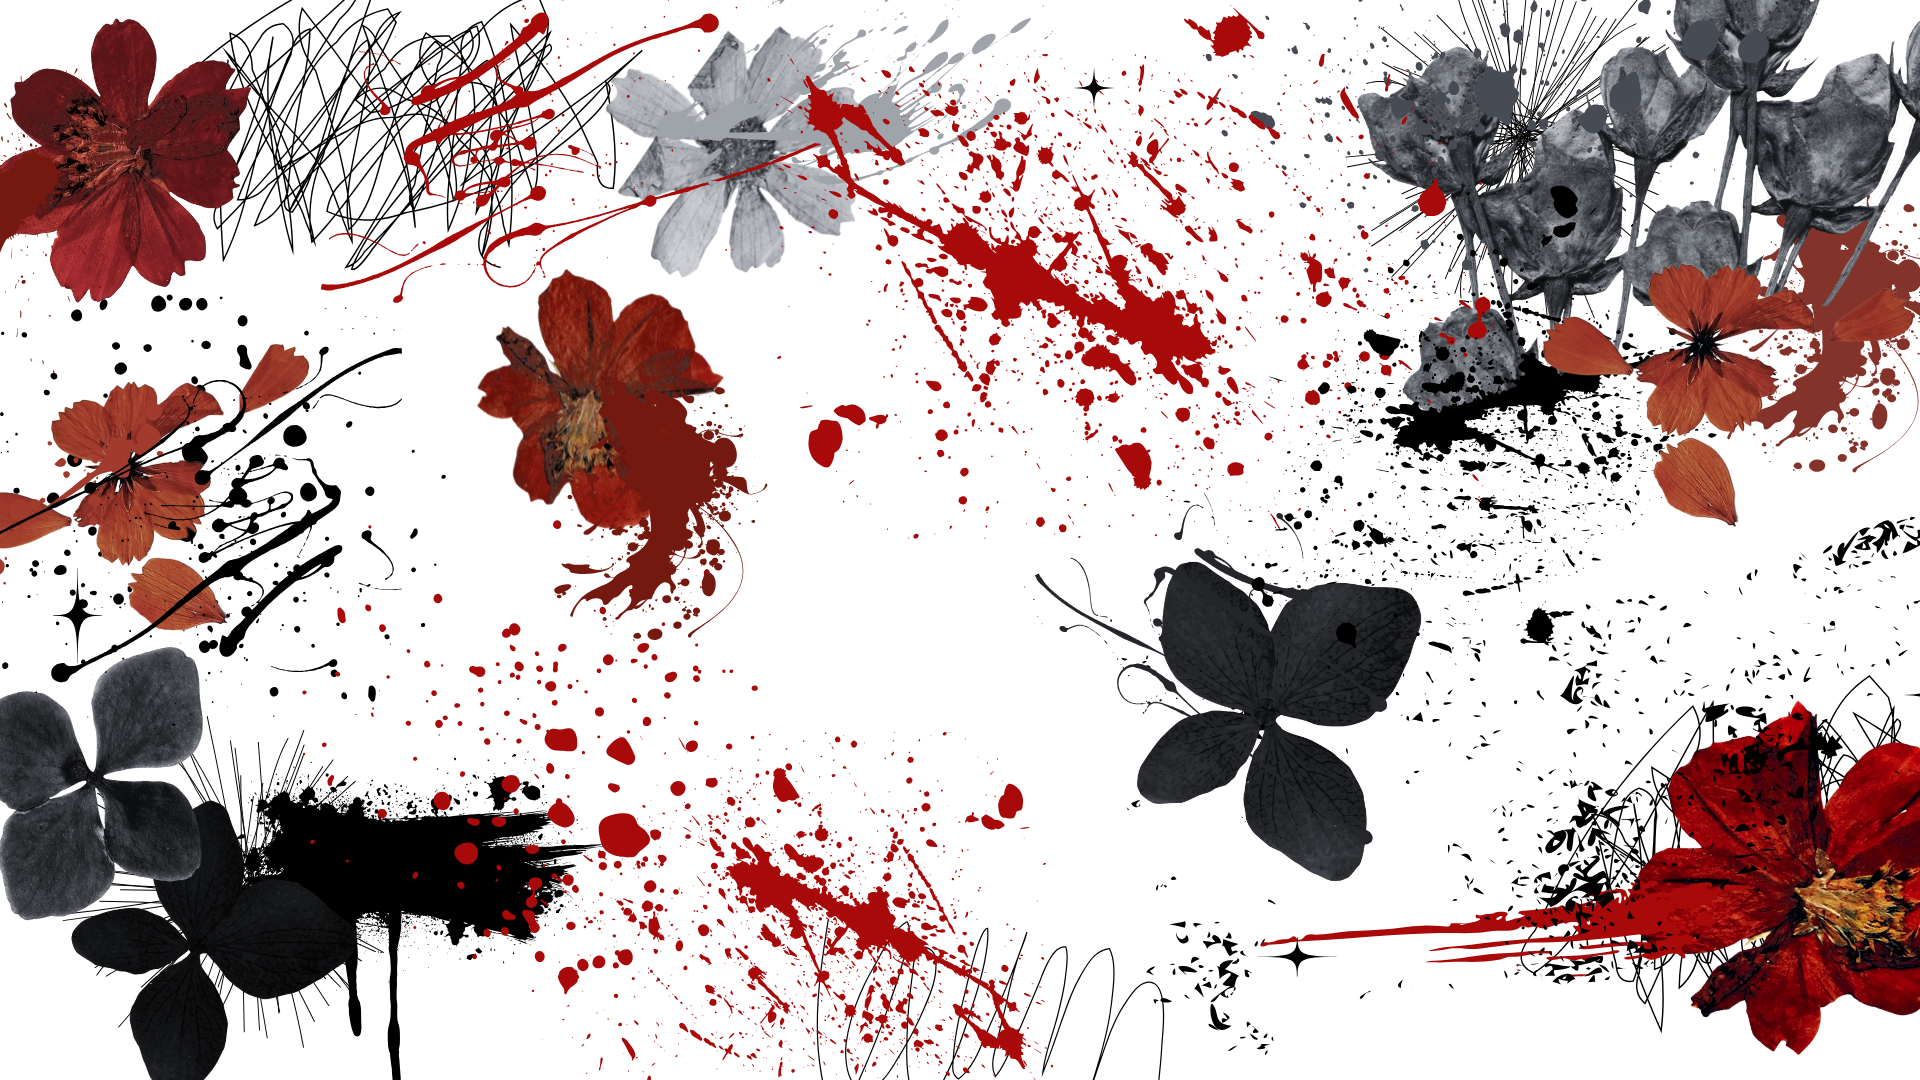
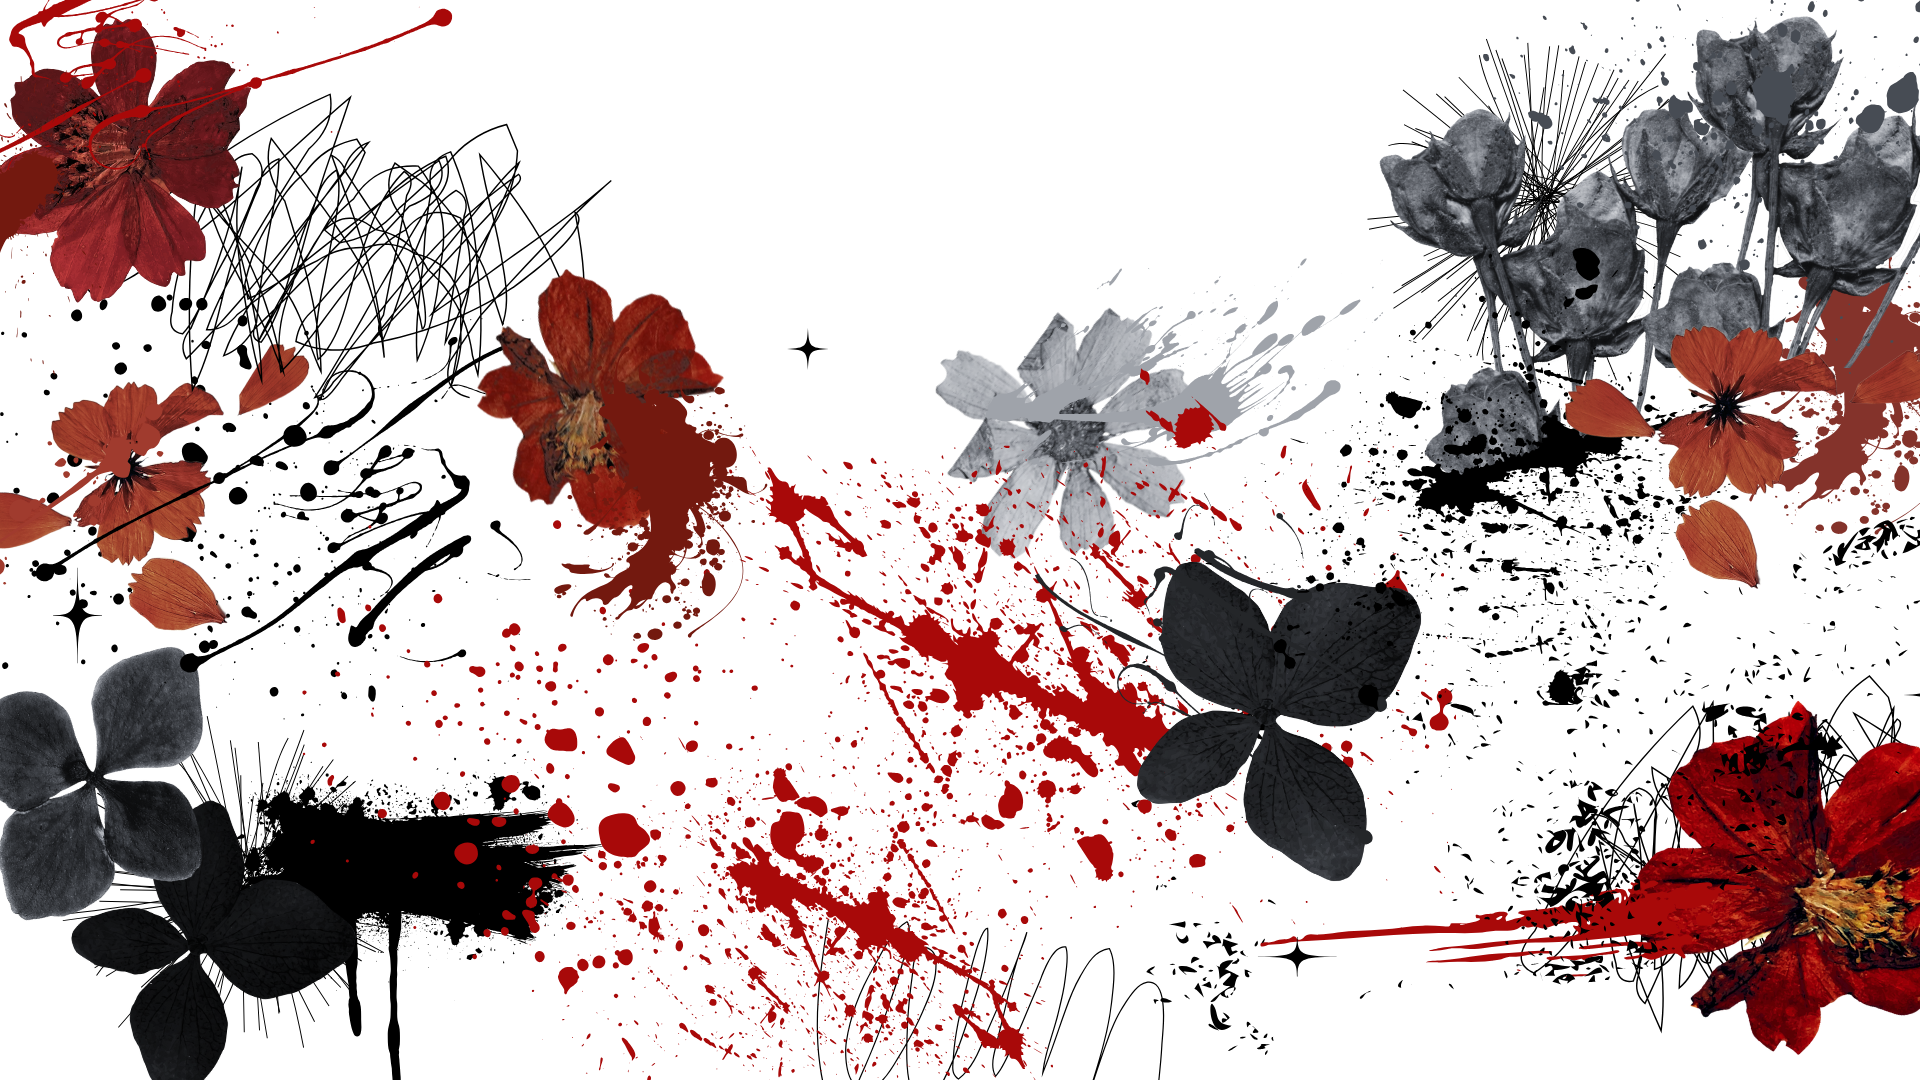
Shirts and filters

diff --git a/frontend/src/pages/shirts/Shirts.jsx b/frontend/src/pages/shirts/Shirts.jsx
@@ -1,10 +1,13 @@
-import React, { useEffect } from 'react';
+import React, { useEffect, useState } from 'react';
 import './Shirts.css';
 import AOS from 'aos';
 import 'aos/dist/aos.css';
 import CardClothing from '../../components/cardClothing/CardClothing.jsx';
+import shirtsData from './ShirtsData.jsx';
+
 
 const Shirts = () => {
+  
   useEffect(() => {
     AOS.init({
       duration: 1000,  // Duración de la animación
@@ -13,6 +16,35 @@ const Shirts = () => {
       offset: 200,  // Desplazamiento desde el top para que inicie la animación
     });
   }, []);
+
+
+  const [showFilters, setShowFilters] = useState(false);
+const [collectionFilter, setCollectionFilter] = useState('');
+const [colorFilter, setColorFilter] = useState('');
+const [sortOrder, setSortOrder] = useState('');
+const [maxPrice, setMaxPrice] = useState(200);
+
+const toggleFilters = () => setShowFilters(!showFilters);
+
+const clearFilters = () => {
+  setCollectionFilter('');
+  setColorFilter('');
+  setSortOrder('');
+  setMaxPrice(200);
+};
+
+const filteredShirts = shirtsData
+  .filter(shirt =>
+    (collectionFilter ? shirt.coleccion === collectionFilter : true) &&
+    (colorFilter ? shirt.color === colorFilter : true) &&
+    shirt.precio <= maxPrice
+  )
+  .sort((a, b) => {
+    if (sortOrder === 'asc') return a.precio - b.precio;
+    if (sortOrder === 'desc') return b.precio - a.precio;
+    return 0;
+  });
+
 
   return (
     <>
@@ -25,65 +57,87 @@ const Shirts = () => {
       <div className="title-wrapper">
         <h1 className="shirtstitle">SHIRTS</h1>
         </div>
+        
+        <div className="filter-wrapper mb-4">
+  <button className="btn btnfilters" onClick={toggleFilters}>
+    {showFilters ? 'Hide filters' : 'Show filters'}
+  </button>
 
-        <div className="row row-cols-1 row-cols-sm-2 row-cols-md-3 row-cols-lg-4 g-4 justify-content-center">
-
-          <div className="col d-flex justify-content-center" data-aos="fade-up">
-            <CardClothing imagen="/shirts1.png" titulo="Camiseta" precio="12.99" enlace="terms" />
-          </div>
-          <div className="col d-flex justify-content-center" data-aos="fade-up">
-            <CardClothing imagen="/shirts1.png" titulo="Camiseta 2" precio="11.99" enlace="terms" />
-          </div>
-          <div className="col d-flex justify-content-center" data-aos="fade-up">
-            <CardClothing imagen="/shirts1.png" titulo="Camiseta 3" precio="11.99" enlace="terms" />
-          </div>
-          <div className="col d-flex justify-content-center" data-aos="fade-up">
-            <CardClothing imagen="/shirts1.png" titulo="Camiseta 4" precio="111.99" enlace="terms" />
-          </div>
-
-
-          <div className="col d-flex justify-content-center" data-aos="fade-up">
-            <CardClothing imagen="/shirts1.png" titulo="Camiseta 5" precio="111.99" enlace="terms" />
-          </div>
-          <div className="col d-flex justify-content-center" data-aos="fade-up">
-            <CardClothing imagen="/shirts1.png" titulo="Camiseta 6" precio="111.99" enlace="terms" />
-          </div>
-          <div className="col d-flex justify-content-center" data-aos="fade-up">
-            <CardClothing imagen="/shirts1.png" titulo="Camiseta 7" precio="111.99" enlace="terms" />
-          </div>
-          <div className="col d-flex justify-content-center" data-aos="fade-up">
-            <CardClothing imagen="/shirts1.png" titulo="Camiseta 8" precio="111.99" enlace="terms" />
-          </div>
-
-
-            <div className="col d-flex justify-content-center" data-aos="fade-up">
-            <CardClothing imagen="/shirts1.png" titulo="Camiseta 5" precio="111.99" enlace="terms" />
-          </div>
-          <div className="col d-flex justify-content-center" data-aos="fade-up">
-            <CardClothing imagen="/shirts1.png" titulo="Camiseta 6" precio="111.99" enlace="terms" />
-          </div>
-          <div className="col d-flex justify-content-center" data-aos="fade-up">
-            <CardClothing imagen="/shirts1.png" titulo="Camiseta 7" precio="111.99" enlace="terms" />
-          </div>
-          <div className="col d-flex justify-content-center" data-aos="fade-up">
-            <CardClothing imagen="/shirts1.png" titulo="Camiseta 8" precio="111.99" enlace="terms" />
-          </div>
-
-
-            <div className="col d-flex justify-content-center" data-aos="fade-up">
-            <CardClothing imagen="/shirts1.png" titulo="Camiseta 5" precio="111.99" enlace="terms" />
-          </div>
-          <div className="col d-flex justify-content-center" data-aos="fade-up">
-            <CardClothing imagen="/shirts1.png" titulo="Camiseta 6" precio="111.99" enlace="terms" />
-          </div>
-          <div className="col d-flex justify-content-center" data-aos="fade-up">
-            <CardClothing imagen="/shirts1.png" titulo="Camiseta 7" precio="111.99" enlace="terms" />
-          </div>
-          <div className="col d-flex justify-content-center" data-aos="fade-up">
-            <CardClothing imagen="/shirts1.png" titulo="Camiseta 8" precio="111.99" enlace="terms" />
-          </div>
-
+  {showFilters && (
+    <div className="filter-menu p-4 mt-3 rounded shadow-sm">
+      <div className="row">
+        <div className="col-md-4 mb-3">
+          <label className="form-label">Collection:</label>
+          <select className="form-select" value={collectionFilter} onChange={(e) => setCollectionFilter(e.target.value)}>
+            <option value="">All</option>
+            <option value="verano">ANGEL OR CRAZY</option>
+            <option value="invierno">This Is Eclipse</option>
+            <option value="limitada">GOOD BOY GONE BAD</option>
+          </select>
         </div>
+
+        <div className="col-md-4 mb-3">
+          <label className="form-label">Color:</label>
+          <select className="form-select" value={colorFilter} onChange={(e) => setColorFilter(e.target.value)}>
+            <option value="">All</option>
+            <option value="rojo">Red</option>
+            <option value="negro">Black</option>
+            <option value="blanco">White</option>
+          </select>
+        </div>
+
+        <div className="col-md-4 mb-3">
+          <label className="form-label">Sort by price:</label>
+          <select className="form-select" value={sortOrder} onChange={(e) => setSortOrder(e.target.value)}>
+            <option value="">No order</option>
+            <option value="asc">Ascending</option>
+            <option value="desc">Descending</option>
+          </select>
+        </div>
+      </div>
+
+      <div className="row mt-3 align-items-center">
+        <div className="col-md-9">
+          <label className="form-label">Max. price: ${maxPrice}</label>
+          <input
+            type="range"
+            className="form-range"
+            min="0"
+            max="200"
+            step="1"
+            value={maxPrice}
+            onChange={(e) => setMaxPrice(parseFloat(e.target.value))}
+          />
+        </div>
+        <div className="col-md-3 text-end">
+        <button className="btn btn-limpiar" onClick={clearFilters}>Clear filters</button>
+        </div>
+      </div>
+    </div>
+  )}
+</div>
+
+{filteredShirts.length === 0 && (
+  <div className="text-center text-light bg-dark p-4 rounded my-4 shadow">
+    <h5>No clothes found with the selected filters.    </h5>
+  </div>
+)}
+
+    
+<div className="row row-cols-1 row-cols-sm-2 row-cols-md-3 row-cols-lg-4 g-4 justify-content-center">
+  {filteredShirts.map((shirt) => (
+    <div className="col d-flex justify-content-center" data-aos="fade-up" key={shirt.id}>
+      <CardClothing
+        imagen={shirt.imagen}
+        titulo={shirt.titulo}
+        precio={shirt.precio}
+        enlace={shirt.enlace}
+      />
+    </div>
+  ))}
+</div>
+
+
       </div>
     </>
   );

diff --git a/frontend/src/pages/shirts/Shirts.css b/frontend/src/pages/shirts/Shirts.css
@@ -1,5 +1,5 @@
 .backshirts {
-    background-image: url('/shirtsbg-small.png');
+    background-image: url('/shirtsback.png');
     background-size: contain 100%; /* Ahora cubre toda la pantalla */
     background-position: center;
     background-repeat: repeat-y; /* Ya no se repite, se adapta al tamaño */
@@ -38,7 +38,6 @@
   
   .shirtstitle {
     color: red; /* Letras rojas */
-    background-color: black; /* Fondo negro */
     font-weight: bold;
     font-size: 35px;
     z-index: 2;
@@ -49,6 +48,75 @@
   .title-wrapper {
     text-align: center;
   }
+
+  .filter-menu {
+    background-color: white;
+    border: 1px solid #ccc;
+    z-index: 2;
+  }  
+
+  .btn-limpiar {
+    background-color: #e60000; 
+    border-color: #e60000;
+    color: white; 
+    transition: background-color 0.3s ease; 
+  }
   
+  .btn-limpiar:hover {
+    background-color: #000000; 
+    border-color: #000000;
+    color: white; 
+    cursor: pointer;
+  }
+
+  .btnfilters {
+    background-color: #ffffff; 
+    border-color: #000000;
+    color: #000000; 
+    transition: background-color 0.3s ease; 
+  }
+  
+  .btnfilters:hover {
+    background-color: #000000; 
+    border-color: #000000;
+    color: white; 
+    cursor: pointer;
+  }
+
+  /* Para navegadores basados en WebKit (Chrome, Safari, etc.) */
+input[type="range"]::-webkit-slider-thumb {
+  -webkit-appearance: none;
+  appearance: none;
+  width: 20px;
+  height: 20px;
+  background: #e60000;
+  border-radius: 50%;
+  cursor: pointer;
+}
+
+/* Para Firefox */
+input[type="range"]::-moz-range-thumb {
+  width: 20px;
+  height: 20px;
+  background: #e60000;
+  border-radius: 50%;
+  cursor: pointer;
+}
+
+/* Para la barra de rango */
+input[type="range"] {
+  width: 100%;
+  height: 8px;
+  background: #ddd;
+  border-radius: 5px;
+  outline: none;
+}
+
+
+  @media (max-width: 1250px) {
+    .backshirts {
+      background-image: url('/shirtsbg-small.png'); /* Cambia aquí a la imagen deseada */
+    }
+  }
   
   

diff --git a/frontend/src/pages/shirts/ShirtsData.jsx b/frontend/src/pages/shirts/ShirtsData.jsx
@@ -1,0 +1,13 @@
+const shirtsData = [
+    { id: 100, imagen: "/shirts1.png", titulo: "RODRIGO", precio: 12.99, coleccion: "verano", color: "rojo", enlace: "#" },
+    { id: 101, imagen: "/shirts1.png", titulo: "Camiseta 2", precio: 11.99, coleccion: "invierno", color: "negro", enlace: "terms" },
+    { id: 102, imagen: "/shirts1.png", titulo: "Camiseta 3", precio: 15.99, coleccion: "limitada", color: "blanco", enlace: "terms" },
+    { id: 103, imagen: "/shirts1.png", titulo: "Camiseta 4", precio: 111.99, coleccion: "verano", color: "negro", enlace: "#" },
+    { id: 104, imagen: "/shirts1.png", titulo: "Camiseta", precio: 12.99, coleccion: "verano", color: "rojo", enlace: "#" },
+    { id: 105, imagen: "/shirts1.png", titulo: "Camiseta 2", precio: 11.99, coleccion: "invierno", color: "negro", enlace: "terms" },
+    { id: 106, imagen: "/shirts1.png", titulo: "Camiseta 3", precio: 15.99, coleccion: "limitada", color: "blanco", enlace: "terms" },
+    { id: 107, imagen: "/shirts1.png", titulo: "Camiseta 4", precio: 111.99, coleccion: "verano", color: "negro", enlace: "#" }
+  ];
+  
+  export default shirtsData;
+  
